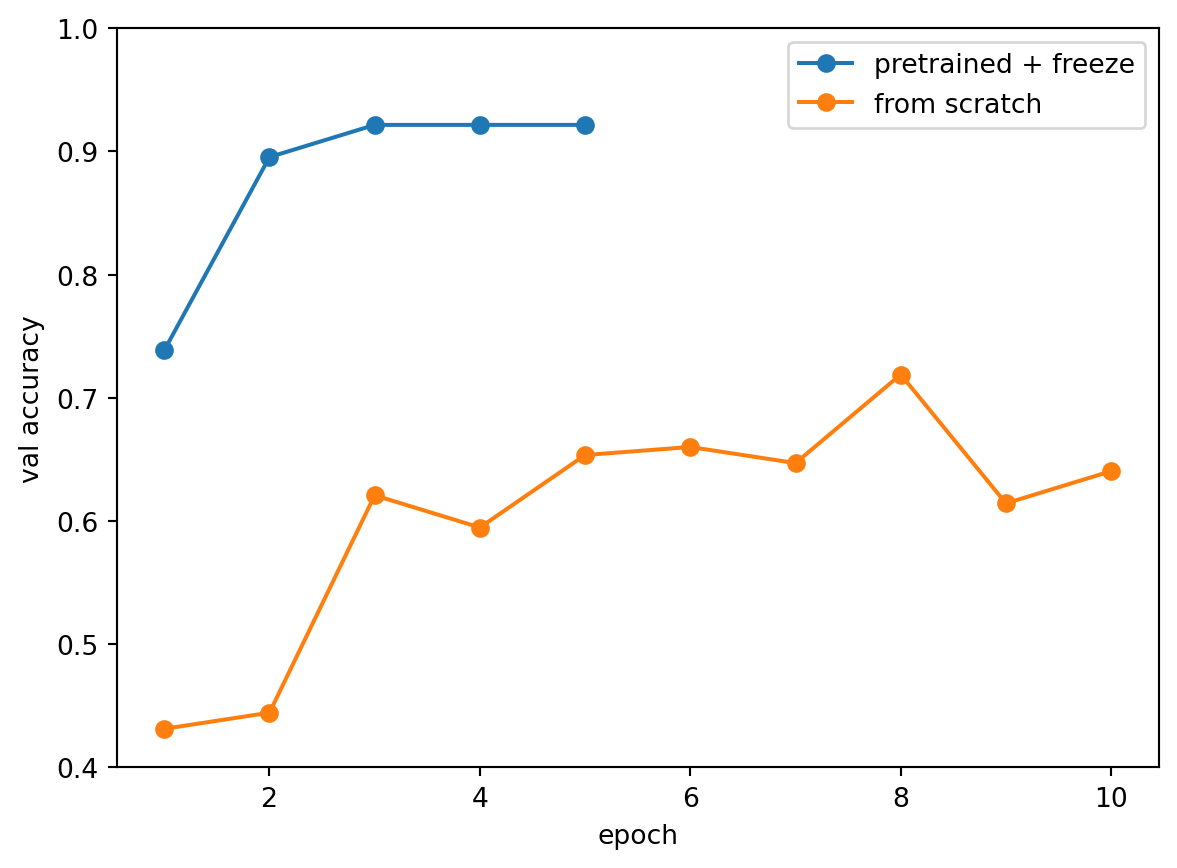
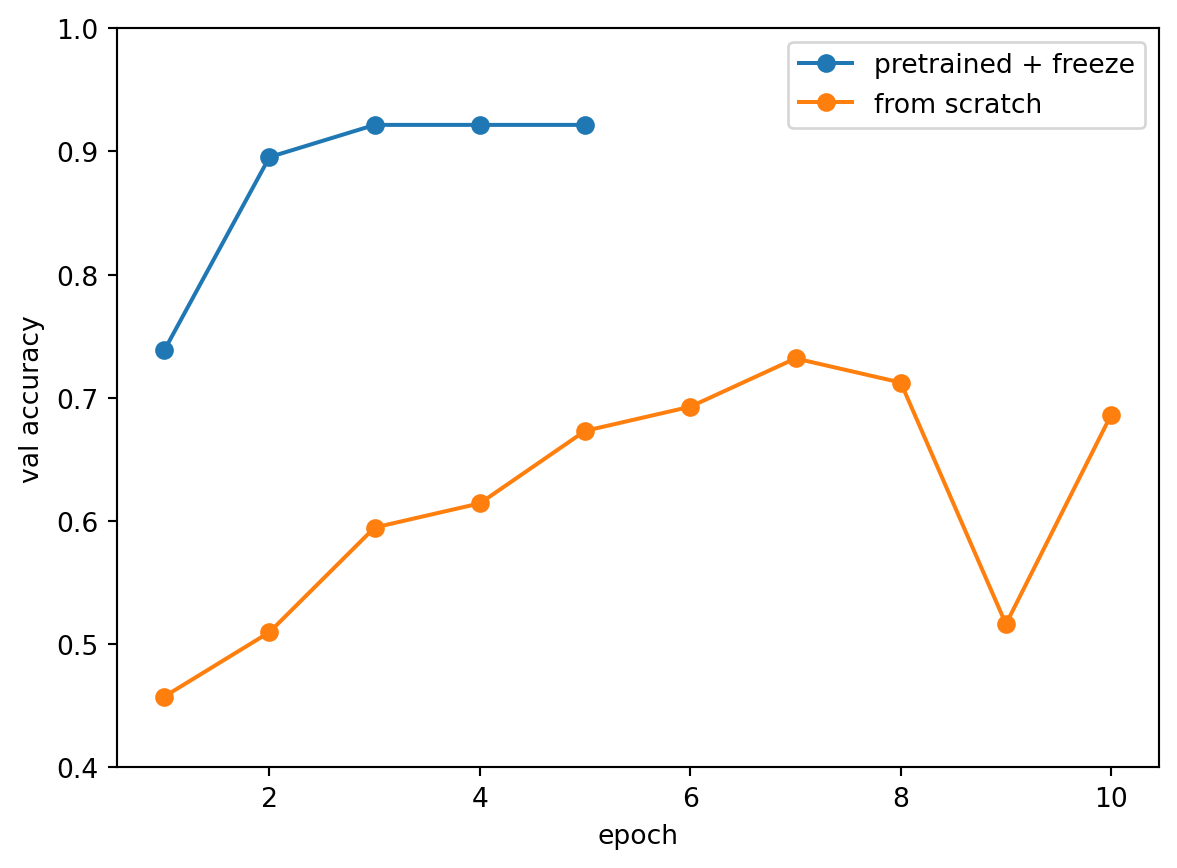
사이트 갱신: 2026-11-02

diff --git a/labs/lab07.html b/labs/lab07.html
@@ -247,7 +247,7 @@ pre > code.sourceCode > span > a:first-child::before { text-decoration: underlin
 </tr>
 </tbody>
 </table>
-<div id="a8a3413d" class="cell" data-execution_count="1">
+<div id="6ccfcf05" class="cell" data-execution_count="1">
 <div class="sourceCode cell-code" id="cb1"><pre class="sourceCode python code-with-copy"><code class="sourceCode python"><span id="cb1-1"><a href="#cb1-1" aria-hidden="true" tabindex="-1"></a><span class="co"># ▶ 준비 셀 — 그대로 실행하세요.</span></span>
 <span id="cb1-2"><a href="#cb1-2" aria-hidden="true" tabindex="-1"></a><span class="im">import</span> os, zipfile, urllib.request</span>
 <span id="cb1-3"><a href="#cb1-3" aria-hidden="true" tabindex="-1"></a><span class="im">import</span> torch</span>
@@ -270,7 +270,7 @@ pre > code.sourceCode > span > a:first-child::before { text-decoration: underlin
 <section id="미리-학습된-모델을-불러온다" class="level2">
 <h2 class="anchored" data-anchor-id="미리-학습된-모델을-불러온다">1. 미리 학습된 모델을 불러온다</h2>
 <p><code>torchvision.models</code>에는 7장의 ResNet이 들어 있습니다. <code>weights</code>에 ImageNet으로 학습한 가중치를 지정하면 가중치까지 내려받습니다. <code>weights.meta['categories']</code>는 1,000개 클래스의 이름입니다.</p>
-<div id="46ada683" class="cell" data-execution_count="2">
+<div id="310896a1" class="cell" data-execution_count="2">
 <div class="sourceCode cell-code" id="cb3"><pre class="sourceCode python code-with-copy"><code class="sourceCode python"><span id="cb3-1"><a href="#cb3-1" aria-hidden="true" tabindex="-1"></a><span class="co"># ✍ 직접 입력</span></span>
 <span id="cb3-2"><a href="#cb3-2" aria-hidden="true" tabindex="-1"></a>weights <span class="op">=</span> models.ResNet18_Weights.IMAGENET1K_V1</span>
 <span id="cb3-3"><a href="#cb3-3" aria-hidden="true" tabindex="-1"></a>model <span class="op">=</span> models.resnet18(weights<span class="op">=</span>weights).to(device)</span>
@@ -282,7 +282,7 @@ pre > code.sourceCode > span > a:first-child::before { text-decoration: underlin
 </div>
 <p>✅ <strong>체크포인트</strong> — <code>1000</code>과 <code>['tench', 'goldfish', 'great white shark', 'tiger shark', 'hammerhead']</code>이면 맞습니다.</p>
 <p>사전학습 모델에는 학습할 때와 같은 형태의 입력을 넣습니다. 이 모델은 224×224 사진을 ImageNet 사진의 채널별 평균과 표준편차로 표준화해 학습했습니다. <code>Resize(256)</code>으로 짧은 변을 256으로 줄이고 <code>CenterCrop(224)</code>로 가운데를 잘라 냅니다.</p>
-<div id="fb6c0832" class="cell" data-execution_count="3">
+<div id="86bbafb1" class="cell" data-execution_count="3">
 <div class="sourceCode cell-code" id="cb5"><pre class="sourceCode python code-with-copy"><code class="sourceCode python"><span id="cb5-1"><a href="#cb5-1" aria-hidden="true" tabindex="-1"></a><span class="co"># ✍ 직접 입력</span></span>
 <span id="cb5-2"><a href="#cb5-2" aria-hidden="true" tabindex="-1"></a>mean <span class="op">=</span> (<span class="fl">0.485</span>, <span class="fl">0.456</span>, <span class="fl">0.406</span>)</span>
 <span id="cb5-3"><a href="#cb5-3" aria-hidden="true" tabindex="-1"></a>std <span class="op">=</span> (<span class="fl">0.229</span>, <span class="fl">0.224</span>, <span class="fl">0.225</span>)</span>
@@ -314,7 +314,7 @@ pre > code.sourceCode > span > a:first-child::before { text-decoration: underlin
 </div>
 </div>
 <p>사진을 변환해 모델에 넣고, 1,000개 확률 가운데 큰 것 다섯 개를 봅니다. <code>topk(5)</code>는 큰 값 다섯 개와 그 위치를 돌려줍니다.</p>
-<div id="d26b1609" class="cell" data-execution_count="5">
+<div id="d7ac351c" class="cell" data-execution_count="5">
 <div class="sourceCode cell-code" id="cb7"><pre class="sourceCode python code-with-copy"><code class="sourceCode python"><span id="cb7-1"><a href="#cb7-1" aria-hidden="true" tabindex="-1"></a><span class="co"># ✍ 직접 입력</span></span>
 <span id="cb7-2"><a href="#cb7-2" aria-hidden="true" tabindex="-1"></a>model.<span class="bu">eval</span>()</span>
 <span id="cb7-3"><a href="#cb7-3" aria-hidden="true" tabindex="-1"></a>x <span class="op">=</span> tf(photo).unsqueeze(<span class="dv">0</span>).to(device)</span>
@@ -334,7 +334,7 @@ Persian cat 0.0</code></pre>
 <p>✅ <strong>체크포인트</strong> — 1~3위가 <code>Egyptian cat</code>, <code>tiger cat</code>, <code>tabby</code>이면 맞습니다. 셋 다 고양이 종류입니다.</p>
 <p>💬 <strong>결과 해설</strong> — 이 모델은 우리가 한 번도 학습시키지 않았습니다. 그래도 고양이 종류 셋을 맨 위에 놓습니다. 실습 6의 모델은 같은 사진을 <code>cat</code>, <code>dog</code>, <code>frog</code> 사이에서 오갔습니다.</p>
 <p>사진 한 장을 받아 상위 다섯 개를 돌려주는 함수로 조립합니다.</p>
-<div id="e98743bc" class="cell" data-execution_count="6">
+<div id="1076d2a9" class="cell" data-execution_count="6">
 <div class="sourceCode cell-code" id="cb9"><pre class="sourceCode python code-with-copy"><code class="sourceCode python"><span id="cb9-1"><a href="#cb9-1" aria-hidden="true" tabindex="-1"></a><span class="co"># ✍ 직접 입력</span></span>
 <span id="cb9-2"><a href="#cb9-2" aria-hidden="true" tabindex="-1"></a><span class="kw">def</span> top5(photo):</span>
 <span id="cb9-3"><a href="#cb9-3" aria-hidden="true" tabindex="-1"></a>    x <span class="op">=</span> tf(photo).unsqueeze(<span class="dv">0</span>).to(device)</span>
@@ -351,12 +351,12 @@ Persian cat 0.0</code></pre>
 </div>
 <p>✅ <strong>체크포인트</strong> — 바로 위와 같은 다섯 개면 맞습니다.</p>
 <p>내 사진을 올립니다. 아래 셀은 <strong>Colab에서만</strong> 실행됩니다. 사람은 찍지 않습니다.</p>
-<div id="516906c5" class="cell" data-execution_count="7">
+<div id="c31e9333" class="cell" data-execution_count="7">
 <div class="sourceCode cell-code" id="cb11"><pre class="sourceCode python code-with-copy"><code class="sourceCode python"><span id="cb11-1"><a href="#cb11-1" aria-hidden="true" tabindex="-1"></a><span class="co"># ▶ 그대로 실행하세요 — (Colab) 내 사진 올리기</span></span>
 <span id="cb11-2"><a href="#cb11-2" aria-hidden="true" tabindex="-1"></a><span class="im">from</span> google.colab <span class="im">import</span> files</span>
 <span id="cb11-3"><a href="#cb11-3" aria-hidden="true" tabindex="-1"></a>uploaded <span class="op">=</span> files.upload()</span></code><button title="클립보드 복사" class="code-copy-button"><i class="bi"></i></button></pre></div>
 </div>
-<div id="4c401c0d" class="cell" data-execution_count="8">
+<div id="472eb8cf" class="cell" data-execution_count="8">
 <div class="sourceCode cell-code" id="cb12"><pre class="sourceCode python code-with-copy"><code class="sourceCode python"><span id="cb12-1"><a href="#cb12-1" aria-hidden="true" tabindex="-1"></a><span class="co"># ✍ 직접 입력</span></span>
 <span id="cb12-2"><a href="#cb12-2" aria-hidden="true" tabindex="-1"></a><span class="cf">for</span> name <span class="kw">in</span> uploaded:</span>
 <span id="cb12-3"><a href="#cb12-3" aria-hidden="true" tabindex="-1"></a>    img <span class="op">=</span> ImageOps.exif_transpose(Image.<span class="bu">open</span>(name)).convert(<span class="st">'RGB'</span>)</span>
@@ -408,7 +408,7 @@ Persian cat 0.0</code></pre>
 <pre><code>hymenoptera_data/
   train/   ants/ … bees/ …
   val/     ants/ … bees/ …</code></pre>
-<div id="9c241440" class="cell" data-execution_count="10">
+<div id="6c467c6c" class="cell" data-execution_count="10">
 <div class="sourceCode cell-code" id="cb15"><pre class="sourceCode python code-with-copy"><code class="sourceCode python"><span id="cb15-1"><a href="#cb15-1" aria-hidden="true" tabindex="-1"></a><span class="co"># ▶ 그대로 실행하세요 — 개미·벌 사진 내려받기(약 45MB)</span></span>
 <span id="cb15-2"><a href="#cb15-2" aria-hidden="true" tabindex="-1"></a>ROOT <span class="op">=</span> <span class="st">'../data/hymenoptera_data'</span></span>
 <span id="cb15-3"><a href="#cb15-3" aria-hidden="true" tabindex="-1"></a><span class="cf">if</span> <span class="kw">not</span> os.path.isdir(ROOT):</span>
@@ -424,7 +424,7 @@ Persian cat 0.0</code></pre>
 </div>
 <p>✅ <code>['train', 'val']</code>이 나오면 됩니다.</p>
 <p><code>datasets.ImageFolder</code>는 폴더 이름을 클래스로 읽습니다. 변환 없이 먼저 읽어 봅니다.</p>
-<div id="ac0efe20" class="cell" data-execution_count="11">
+<div id="bbb0620f" class="cell" data-execution_count="11">
 <div class="sourceCode cell-code" id="cb17"><pre class="sourceCode python code-with-copy"><code class="sourceCode python"><span id="cb17-1"><a href="#cb17-1" aria-hidden="true" tabindex="-1"></a><span class="co"># ✍ 직접 입력</span></span>
 <span id="cb17-2"><a href="#cb17-2" aria-hidden="true" tabindex="-1"></a>raw <span class="op">=</span> datasets.ImageFolder(ROOT <span class="op">+</span> <span class="st">'/train'</span>)</span>
 <span id="cb17-3"><a href="#cb17-3" aria-hidden="true" tabindex="-1"></a><span class="bu">print</span>(raw.classes, <span class="bu">len</span>(raw))</span>
@@ -455,7 +455,7 @@ Persian cat 0.0</code></pre>
 </div>
 </div>
 <p>훈련 사진에 쓸 변환에 이론 8장의 증강을 넣습니다. <code>RandomHorizontalFlip()</code>은 절반의 확률로 좌우를 뒤집고, <code>RandomRotation(15)</code>는 −15°에서 15° 사이로 돌리고, <code>ColorJitter</code>는 밝기·대비·채도를 30% 안에서 바꿉니다. 회전을 <code>CenterCrop</code> 앞에 두어 회전으로 생긴 모서리가 잘려 나가게 합니다.</p>
-<div id="52609421" class="cell" data-execution_count="13">
+<div id="840aa87b" class="cell" data-execution_count="13">
 <div class="sourceCode cell-code" id="cb20"><pre class="sourceCode python code-with-copy"><code class="sourceCode python"><span id="cb20-1"><a href="#cb20-1" aria-hidden="true" tabindex="-1"></a><span class="co"># ✍ 직접 입력</span></span>
 <span id="cb20-2"><a href="#cb20-2" aria-hidden="true" tabindex="-1"></a>tf_train <span class="op">=</span> transforms.Compose([</span>
 <span id="cb20-3"><a href="#cb20-3" aria-hidden="true" tabindex="-1"></a>    transforms.Resize(<span class="dv">256</span>),</span>
@@ -487,7 +487,7 @@ Persian cat 0.0</code></pre>
 </div>
 <p>💬 <strong>결과 해설</strong> — 같은 사진이 부를 때마다 다르게 바뀝니다. 학습 중에는 에폭마다 이런 새 변형이 들어갑니다.</p>
 <p>데이터셋과 로더를 만듭니다. 증강은 훈련 사진에만 쓰고, 검증 사진에는 1절의 <code>tf</code>를 씁니다.</p>
-<div id="83ee1f5a" class="cell" data-execution_count="15">
+<div id="9af814ba" class="cell" data-execution_count="15">
 <div class="sourceCode cell-code" id="cb22"><pre class="sourceCode python code-with-copy"><code class="sourceCode python"><span id="cb22-1"><a href="#cb22-1" aria-hidden="true" tabindex="-1"></a><span class="co"># ✍ 직접 입력</span></span>
 <span id="cb22-2"><a href="#cb22-2" aria-hidden="true" tabindex="-1"></a>train_ds <span class="op">=</span> datasets.ImageFolder(ROOT <span class="op">+</span> <span class="st">'/train'</span>, transform<span class="op">=</span>tf_train)</span>
 <span id="cb22-3"><a href="#cb22-3" aria-hidden="true" tabindex="-1"></a>val_ds <span class="op">=</span> datasets.ImageFolder(ROOT <span class="op">+</span> <span class="st">'/val'</span>, transform<span class="op">=</span>tf)</span>
@@ -508,7 +508,7 @@ Persian cat 0.0</code></pre>
 <section id="분류부-확인" class="level3">
 <h3 class="anchored" data-anchor-id="분류부-확인">5-1. 분류부 확인</h3>
 <p>이론 8장에서 CNN을 특성 학습부와 분류부로 나누었습니다. ResNet-18에서는 맨 끝의 <code>model.fc</code> 한 층이 분류부이고, 그 앞의 층이 모두 특성 학습부입니다.</p>
-<div id="851064a8" class="cell" data-execution_count="16">
+<div id="92c56020" class="cell" data-execution_count="16">
 <div class="sourceCode cell-code" id="cb24"><pre class="sourceCode python code-with-copy"><code class="sourceCode python"><span id="cb24-1"><a href="#cb24-1" aria-hidden="true" tabindex="-1"></a><span class="co"># ✍ 직접 입력</span></span>
 <span id="cb24-2"><a href="#cb24-2" aria-hidden="true" tabindex="-1"></a><span class="bu">print</span>(model.fc)</span>
 <span id="cb24-3"><a href="#cb24-3" aria-hidden="true" tabindex="-1"></a><span class="bu">print</span>(model.fc.in_features)</span></code><button title="클립보드 복사" class="code-copy-button"><i class="bi"></i></button></pre></div>
@@ -523,7 +523,7 @@ Persian cat 0.0</code></pre>
 <section id="특성-학습부-동결" class="level3">
 <h3 class="anchored" data-anchor-id="특성-학습부-동결">5-2. 특성 학습부 동결</h3>
 <p>실습 3에서 <code>requires_grad</code>가 <code>True</code>인 텐서만 <code>backward()</code> 때 기울기가 계산된다고 했습니다. 기울기가 없으면 옵티마이저도 값을 바꾸지 못합니다. 그래서 파라미터의 <code>requires_grad</code>를 <code>False</code>로 바꾸면 그 파라미터는 학습 중에도 그대로 고정됩니다. 이것이 동결입니다. 먼저 모델의 모든 파라미터를 동결합니다.</p>
-<div id="d1916847" class="cell" data-execution_count="17">
+<div id="bcfc6930" class="cell" data-execution_count="17">
 <div class="sourceCode cell-code" id="cb26"><pre class="sourceCode python code-with-copy"><code class="sourceCode python"><span id="cb26-1"><a href="#cb26-1" aria-hidden="true" tabindex="-1"></a><span class="co"># ✍ 직접 입력</span></span>
 <span id="cb26-2"><a href="#cb26-2" aria-hidden="true" tabindex="-1"></a><span class="cf">for</span> p <span class="kw">in</span> model.parameters():</span>
 <span id="cb26-3"><a href="#cb26-3" aria-hidden="true" tabindex="-1"></a>    p.requires_grad <span class="op">=</span> <span class="va">False</span></span>
@@ -540,7 +540,7 @@ Persian cat 0.0</code></pre>
 <section id="분류부-갈아-끼우기" class="level3">
 <h3 class="anchored" data-anchor-id="분류부-갈아-끼우기">5-3. 분류부 갈아 끼우기</h3>
 <p><code>model.fc</code>에 새 층을 넣으면 분류부가 바뀝니다. 입력은 특성 512개 그대로이고, 출력은 개미와 벌 2개입니다. 새로 만든 층은 CPU에 있으므로 모델을 다시 <code>device</code>로 옮깁니다. 바꾼 뒤 고양이 사진을 넣어 출력 모양을 봅니다.</p>
-<div id="06d22956" class="cell" data-execution_count="18">
+<div id="ea47bff8" class="cell" data-execution_count="18">
 <div class="sourceCode cell-code" id="cb28"><pre class="sourceCode python code-with-copy"><code class="sourceCode python"><span id="cb28-1"><a href="#cb28-1" aria-hidden="true" tabindex="-1"></a><span class="co"># ✍ 직접 입력</span></span>
 <span id="cb28-2"><a href="#cb28-2" aria-hidden="true" tabindex="-1"></a>model.fc <span class="op">=</span> nn.Linear(<span class="dv">512</span>, <span class="dv">2</span>)</span>
 <span id="cb28-3"><a href="#cb28-3" aria-hidden="true" tabindex="-1"></a>model <span class="op">=</span> model.to(device)</span>
@@ -557,7 +557,7 @@ torch.Size([1, 2])</code></pre>
 <p>✅ <strong>체크포인트</strong> — <code>Linear(in_features=512, out_features=2, bias=True)</code>와 <code>torch.Size([1, 2])</code>이면 맞습니다.</p>
 <p>💬 <strong>결과 해설</strong> — 2절에서는 같은 사진에 점수가 1,000개 나왔는데, 이제는 2개만 나옵니다. 분류부만 바뀌었고 특성 학습부는 그대로입니다.</p>
 <p>학습할 파라미터를 다시 셉니다.</p>
-<div id="697b8eb2" class="cell" data-execution_count="19">
+<div id="54375f2b" class="cell" data-execution_count="19">
 <div class="sourceCode cell-code" id="cb30"><pre class="sourceCode python code-with-copy"><code class="sourceCode python"><span id="cb30-1"><a href="#cb30-1" aria-hidden="true" tabindex="-1"></a><span class="co"># ✍ 직접 입력</span></span>
 <span id="cb30-2"><a href="#cb30-2" aria-hidden="true" tabindex="-1"></a>n_train <span class="op">=</span> <span class="bu">sum</span>(p.numel() <span class="cf">for</span> p <span class="kw">in</span> model.parameters() <span class="cf">if</span> p.requires_grad)</span>
 <span id="cb30-3"><a href="#cb30-3" aria-hidden="true" tabindex="-1"></a>n_all <span class="op">=</span> <span class="bu">sum</span>(p.numel() <span class="cf">for</span> p <span class="kw">in</span> model.parameters())</span>
@@ -574,7 +574,7 @@ torch.Size([1, 2])</code></pre>
 <section id="학습시켜-비교한다" class="level2">
 <h2 class="anchored" data-anchor-id="학습시켜-비교한다">6. 학습시켜 비교한다</h2>
 <p>학습 함수와 평가 함수는 실습 6과 같습니다.</p>
-<div id="a730d31d" class="cell" data-execution_count="20">
+<div id="f07da155" class="cell" data-execution_count="20">
 <div class="sourceCode cell-code" id="cb32"><pre class="sourceCode python code-with-copy"><code class="sourceCode python"><span id="cb32-1"><a href="#cb32-1" aria-hidden="true" tabindex="-1"></a><span class="co"># ▶ 그대로 실행하세요 — 실습 6과 같은 학습·평가 함수</span></span>
 <span id="cb32-2"><a href="#cb32-2" aria-hidden="true" tabindex="-1"></a><span class="kw">def</span> train_one_epoch(model, loader, criterion, optimizer):</span>
 <span id="cb32-3"><a href="#cb32-3" aria-hidden="true" tabindex="-1"></a>    model.train()</span>
@@ -605,7 +605,7 @@ torch.Size([1, 2])</code></pre>
 <span id="cb32-28"><a href="#cb32-28" aria-hidden="true" tabindex="-1"></a>    <span class="cf">return</span> total <span class="op">/</span> n, correct <span class="op">/</span> n</span></code><button title="클립보드 복사" class="code-copy-button"><i class="bi"></i></button></pre></div>
 </div>
 <p>옵티마이저에는 학습할 분류부 <code>model.fc</code>의 파라미터만 넘깁니다. 학습 전의 검증 정확도를 먼저 봅니다.</p>
-<div id="770d35d2" class="cell" data-execution_count="21">
+<div id="0c4f09f2" class="cell" data-execution_count="21">
 <div class="sourceCode cell-code" id="cb33"><pre class="sourceCode python code-with-copy"><code class="sourceCode python"><span id="cb33-1"><a href="#cb33-1" aria-hidden="true" tabindex="-1"></a><span class="co"># ✍ 직접 입력</span></span>
 <span id="cb33-2"><a href="#cb33-2" aria-hidden="true" tabindex="-1"></a>criterion <span class="op">=</span> nn.CrossEntropyLoss()</span>
 <span id="cb33-3"><a href="#cb33-3" aria-hidden="true" tabindex="-1"></a>optimizer <span class="op">=</span> torch.optim.Adam(model.fc.parameters(), lr<span class="op">=</span><span class="fl">0.001</span>)</span>
@@ -616,13 +616,13 @@ torch.Size([1, 2])</code></pre>
 </div>
 <p>✅ <strong>체크포인트</strong> — 정확도가 <strong>0.5</strong> 안팎이면 맞습니다. 새 분류부는 아직 무작위라 둘 중 하나를 찍는 수준입니다.</p>
 <p>학습하기 전에 특성 학습부의 첫 층 커널과 분류부의 가중치를 복사해 둡니다. 학습이 끝난 뒤 무엇이 바뀌었는지 비교합니다.</p>
-<div id="e54fa633" class="cell" data-execution_count="22">
+<div id="3effa29b" class="cell" data-execution_count="22">
 <div class="sourceCode cell-code" id="cb35"><pre class="sourceCode python code-with-copy"><code class="sourceCode python"><span id="cb35-1"><a href="#cb35-1" aria-hidden="true" tabindex="-1"></a><span class="co"># ✍ 직접 입력</span></span>
 <span id="cb35-2"><a href="#cb35-2" aria-hidden="true" tabindex="-1"></a>conv1_before <span class="op">=</span> model.conv1.weight.clone()</span>
 <span id="cb35-3"><a href="#cb35-3" aria-hidden="true" tabindex="-1"></a>fc_before <span class="op">=</span> model.fc.weight.clone()</span></code><button title="클립보드 복사" class="code-copy-button"><i class="bi"></i></button></pre></div>
 </div>
 <p>5 에폭 학습하며 검증 정확도를 기록합니다.</p>
-<div id="87aa1b63" class="cell" data-execution_count="23">
+<div id="fea1d12d" class="cell" data-execution_count="23">
 <div class="sourceCode cell-code" id="cb36"><pre class="sourceCode python code-with-copy"><code class="sourceCode python"><span id="cb36-1"><a href="#cb36-1" aria-hidden="true" tabindex="-1"></a><span class="co"># ✍ 직접 입력</span></span>
 <span id="cb36-2"><a href="#cb36-2" aria-hidden="true" tabindex="-1"></a>hist_tl <span class="op">=</span> []</span>
 <span id="cb36-3"><a href="#cb36-3" aria-hidden="true" tabindex="-1"></a><span class="cf">for</span> epoch <span class="kw">in</span> <span class="bu">range</span>(<span class="dv">5</span>):</span>
@@ -640,7 +640,7 @@ torch.Size([1, 2])</code></pre>
 </div>
 <p>✅ <strong>체크포인트</strong> — 마지막 정확도가 <strong>0.92~0.95</strong>이면 맞습니다. 첫 에폭부터 0.7을 넘습니다.</p>
 <p>복사해 둔 값과 비교합니다. <code>torch.equal</code>은 두 텐서의 값이 모두 같으면 <code>True</code>를 돌려줍니다.</p>
-<div id="8b9ba6e2" class="cell" data-execution_count="24">
+<div id="17e99f44" class="cell" data-execution_count="24">
 <div class="sourceCode cell-code" id="cb38"><pre class="sourceCode python code-with-copy"><code class="sourceCode python"><span id="cb38-1"><a href="#cb38-1" aria-hidden="true" tabindex="-1"></a><span class="co"># ✍ 직접 입력</span></span>
 <span id="cb38-2"><a href="#cb38-2" aria-hidden="true" tabindex="-1"></a><span class="bu">print</span>(torch.equal(conv1_before, model.conv1.weight))</span>
 <span id="cb38-3"><a href="#cb38-3" aria-hidden="true" tabindex="-1"></a><span class="bu">print</span>(torch.equal(fc_before, model.fc.weight))</span></code><button title="클립보드 복사" class="code-copy-button"><i class="bi"></i></button></pre></div>
@@ -652,7 +652,7 @@ False</code></pre>
 <p>✅ <strong>체크포인트</strong> — <code>True</code>와 <code>False</code>이면 맞습니다.</p>
 <p>💬 <strong>결과 해설</strong> — 동결한 첫 층의 커널은 5 에폭을 학습한 뒤에도 그대로이고, 분류부의 가중치만 바뀌었습니다.</p>
 <p>같은 ResNet-18을 <code>weights=None</code>으로 만들면 가중치가 무작위인 모델이 됩니다. 같은 사진으로 처음부터 학습합니다. 이번에는 모든 파라미터를 학습하고, 에폭을 10으로 늘립니다.</p>
-<div id="f4fd0d2f" class="cell" data-execution_count="25">
+<div id="5e4cfb61" class="cell" data-execution_count="25">
 <div class="sourceCode cell-code" id="cb40"><pre class="sourceCode python code-with-copy"><code class="sourceCode python"><span id="cb40-1"><a href="#cb40-1" aria-hidden="true" tabindex="-1"></a><span class="co"># ✍ 직접 입력</span></span>
 <span id="cb40-2"><a href="#cb40-2" aria-hidden="true" tabindex="-1"></a>torch.manual_seed(<span class="dv">42</span>)</span>
 <span id="cb40-3"><a href="#cb40-3" aria-hidden="true" tabindex="-1"></a>scratch <span class="op">=</span> models.resnet18(weights<span class="op">=</span><span class="va">None</span>)</span>
@@ -667,16 +667,16 @@ False</code></pre>
 <span id="cb40-12"><a href="#cb40-12" aria-hidden="true" tabindex="-1"></a>    hist_sc.append(val_acc)</span>
 <span id="cb40-13"><a href="#cb40-13" aria-hidden="true" tabindex="-1"></a>    <span class="bu">print</span>(epoch, <span class="bu">round</span>(val_loss, <span class="dv">4</span>), <span class="bu">round</span>(val_acc, <span class="dv">4</span>))</span></code><button title="클립보드 복사" class="code-copy-button"><i class="bi"></i></button></pre></div>
 <div class="cell-output cell-output-stdout">
-<pre><code>0 4.5382 0.4314
-1 1.2184 0.4444
-2 2.3314 0.6209
-3 1.1489 0.5948
-4 0.7108 0.6536
-5 0.6626 0.6601
-6 0.8597 0.6471
-7 0.6707 0.719
-8 0.8221 0.6144
-9 0.7082 0.6405</code></pre>
+<pre><code>0 2.4719 0.4575
+1 0.9612 0.5098
+2 2.5859 0.5948
+3 1.4424 0.6144
+4 0.7503 0.6732
+5 0.6012 0.6928
+6 0.6459 0.732
+7 0.7223 0.7124
+8 1.3611 0.5163
+9 0.8026 0.6863</code></pre>
 </div>
 </div>
 <p>💬 <strong>결과 해설</strong> — 검증 정확도가 0.4에서 0.8 사이를 오르내립니다. 구조도 사진도 같고, 다른 것은 가중치의 출발점뿐입니다.</p>
@@ -733,6 +733,36 @@ False</code></pre>
 </div>
 </div>
 <p>💬 <strong>결과 해설</strong> — 사전학습 모델은 24장 가운데 한두 장만 틀립니다. 처음부터 학습한 모델은 그보다 몇 배 많이 틀리고, 틀리는 장수는 학습할 때마다 달라집니다. 사진 244장은 처음부터 학습하기에는 적지만, 분류부 1,026개를 학습하기에는 충분합니다.</p>
+<p>학습한 개미·벌 모델로 사진을 판별해 봅니다. 사진 한 장을 받아 두 클래스의 확률을 돌려주는 함수를 만들고, 검증 사진 한 장으로 먼저 확인합니다.</p>
+<div id="db62edc2" class="cell" data-execution_count="28">
+<div class="sourceCode cell-code" id="cb44"><pre class="sourceCode python code-with-copy"><code class="sourceCode python"><span id="cb44-1"><a href="#cb44-1" aria-hidden="true" tabindex="-1"></a><span class="co"># ✍ 직접 입력</span></span>
+<span id="cb44-2"><a href="#cb44-2" aria-hidden="true" tabindex="-1"></a><span class="kw">def</span> predict(photo):</span>
+<span id="cb44-3"><a href="#cb44-3" aria-hidden="true" tabindex="-1"></a>    x <span class="op">=</span> tf(photo).unsqueeze(<span class="dv">0</span>).to(device)</span>
+<span id="cb44-4"><a href="#cb44-4" aria-hidden="true" tabindex="-1"></a>    model.<span class="bu">eval</span>()</span>
+<span id="cb44-5"><a href="#cb44-5" aria-hidden="true" tabindex="-1"></a>    <span class="cf">with</span> torch.no_grad():</span>
+<span id="cb44-6"><a href="#cb44-6" aria-hidden="true" tabindex="-1"></a>        prob <span class="op">=</span> torch.softmax(model(x), dim<span class="op">=</span><span class="dv">1</span>)[<span class="dv">0</span>]</span>
+<span id="cb44-7"><a href="#cb44-7" aria-hidden="true" tabindex="-1"></a>    <span class="cf">return</span> {c: <span class="bu">round</span>(p, <span class="dv">3</span>) <span class="cf">for</span> c, p <span class="kw">in</span> <span class="bu">zip</span>(train_ds.classes, prob.tolist())}</span>
+<span id="cb44-8"><a href="#cb44-8" aria-hidden="true" tabindex="-1"></a></span>
+<span id="cb44-9"><a href="#cb44-9" aria-hidden="true" tabindex="-1"></a>img, label <span class="op">=</span> raw_val[<span class="dv">0</span>]</span>
+<span id="cb44-10"><a href="#cb44-10" aria-hidden="true" tabindex="-1"></a><span class="bu">print</span>(raw_val.classes[label], predict(img))</span></code><button title="클립보드 복사" class="code-copy-button"><i class="bi"></i></button></pre></div>
+<div class="cell-output cell-output-stdout">
+<pre><code>ants {'ants': 0.667, 'bees': 0.333}</code></pre>
+</div>
+</div>
+<p>✅ <strong>체크포인트</strong> — 실제 클래스 <code>ants</code>와 함께 <code>{'ants': 0.667, 'bees': 0.333}</code>처럼 <code>ants</code>의 확률이 더 크게 나오면 맞습니다.</p>
+<p>이제 내 사진을 올립니다. 아래 셀은 <strong>Colab에서만</strong> 실행됩니다. 인터넷에서 개미나 벌 사진을 내려받아 올려 봅니다.</p>
+<div id="579c80fc" class="cell" data-execution_count="29">
+<div class="sourceCode cell-code" id="cb46"><pre class="sourceCode python code-with-copy"><code class="sourceCode python"><span id="cb46-1"><a href="#cb46-1" aria-hidden="true" tabindex="-1"></a><span class="co"># ▶ 그대로 실행하세요 — (Colab) 사진 올리기</span></span>
+<span id="cb46-2"><a href="#cb46-2" aria-hidden="true" tabindex="-1"></a><span class="im">from</span> google.colab <span class="im">import</span> files</span>
+<span id="cb46-3"><a href="#cb46-3" aria-hidden="true" tabindex="-1"></a>uploaded <span class="op">=</span> files.upload()</span></code><button title="클립보드 복사" class="code-copy-button"><i class="bi"></i></button></pre></div>
+</div>
+<div id="bbaa7e2c" class="cell" data-execution_count="30">
+<div class="sourceCode cell-code" id="cb47"><pre class="sourceCode python code-with-copy"><code class="sourceCode python"><span id="cb47-1"><a href="#cb47-1" aria-hidden="true" tabindex="-1"></a><span class="co"># ✍ 직접 입력</span></span>
+<span id="cb47-2"><a href="#cb47-2" aria-hidden="true" tabindex="-1"></a><span class="cf">for</span> name <span class="kw">in</span> uploaded:</span>
+<span id="cb47-3"><a href="#cb47-3" aria-hidden="true" tabindex="-1"></a>    img <span class="op">=</span> ImageOps.exif_transpose(Image.<span class="bu">open</span>(name)).convert(<span class="st">'RGB'</span>)</span>
+<span id="cb47-4"><a href="#cb47-4" aria-hidden="true" tabindex="-1"></a>    <span class="bu">print</span>(name, predict(img))</span></code><button title="클립보드 복사" class="code-copy-button"><i class="bi"></i></button></pre></div>
+</div>
+<p>💬 사진 이름 옆에 <code>ants</code>와 <code>bees</code>의 확률이 나옵니다. 개미나 벌이 아닌 사진을 올려도 둘 중 하나의 확률이 높게 나옵니다. 분류부의 출력이 2개뿐이라 둘 중에서만 고르기 때문입니다.</p>
 <hr>
 </section>
 <section id="실습-과제-8분" class="level2">
@@ -740,22 +770,22 @@ False</code></pre>
 <section id="과제-1-사진을-더-줄이면" class="level3">
 <h3 class="anchored" data-anchor-id="과제-1-사진을-더-줄이면">📝 과제 1 · 사진을 더 줄이면</h3>
 <p>훈련 사진을 클래스마다 20장, 모두 40장만 써서 동결 학습을 다시 합니다. 새 모델을 만들어 5절과 같이 동결하고, 10 에폭 학습한 뒤 검증 정확도를 적습니다.</p>
-<div id="50e8ba94" class="cell" data-execution_count="28">
-<div class="sourceCode cell-code" id="cb44"><pre class="sourceCode python code-with-copy"><code class="sourceCode python"><span id="cb44-1"><a href="#cb44-1" aria-hidden="true" tabindex="-1"></a><span class="co"># 📝</span></span>
-<span id="cb44-2"><a href="#cb44-2" aria-hidden="true" tabindex="-1"></a><span class="co">#&gt; 힌트: train_ds.targets에서 라벨이 0인 앞 20개와 1인 앞 20개의 번호를 골라 Subset(train_ds, idx)로 데이터셋을 만들고, DataLoader(batch_size=8, shuffle=True)로 감쌉니다.</span></span>
-<span id="cb44-3"><a href="#cb44-3" aria-hidden="true" tabindex="-1"></a><span class="co">#&gt; 힌트: 모델은 models.resnet18(weights=weights)로 새로 만들고, 5절의 동결·교체 코드와 6절의 학습 반복문을 그대로 씁니다.</span></span>
-<span id="cb44-4"><a href="#cb44-4" aria-hidden="true" tabindex="-1"></a>idx <span class="op">=</span> [i <span class="cf">for</span> c <span class="kw">in</span> (<span class="dv">0</span>, <span class="dv">1</span>) <span class="cf">for</span> i <span class="kw">in</span> [j <span class="cf">for</span> j, t <span class="kw">in</span> <span class="bu">enumerate</span>(train_ds.targets) <span class="cf">if</span> t <span class="op">==</span> c][:<span class="dv">20</span>]]</span>
-<span id="cb44-5"><a href="#cb44-5" aria-hidden="true" tabindex="-1"></a>small_loader <span class="op">=</span> DataLoader(Subset(train_ds, idx), batch_size<span class="op">=</span><span class="dv">8</span>, shuffle<span class="op">=</span><span class="va">True</span>)</span>
-<span id="cb44-6"><a href="#cb44-6" aria-hidden="true" tabindex="-1"></a></span>
-<span id="cb44-7"><a href="#cb44-7" aria-hidden="true" tabindex="-1"></a>m20 <span class="op">=</span> models.resnet18(weights<span class="op">=</span>weights)</span>
-<span id="cb44-8"><a href="#cb44-8" aria-hidden="true" tabindex="-1"></a><span class="cf">for</span> p <span class="kw">in</span> m20.parameters():</span>
-<span id="cb44-9"><a href="#cb44-9" aria-hidden="true" tabindex="-1"></a>    p.requires_grad <span class="op">=</span> <span class="va">False</span></span>
-<span id="cb44-10"><a href="#cb44-10" aria-hidden="true" tabindex="-1"></a>m20.fc <span class="op">=</span> nn.Linear(<span class="dv">512</span>, <span class="dv">2</span>)</span>
-<span id="cb44-11"><a href="#cb44-11" aria-hidden="true" tabindex="-1"></a>m20 <span class="op">=</span> m20.to(device)</span>
-<span id="cb44-12"><a href="#cb44-12" aria-hidden="true" tabindex="-1"></a>opt20 <span class="op">=</span> torch.optim.Adam(m20.fc.parameters(), lr<span class="op">=</span><span class="fl">0.001</span>)</span>
-<span id="cb44-13"><a href="#cb44-13" aria-hidden="true" tabindex="-1"></a><span class="cf">for</span> epoch <span class="kw">in</span> <span class="bu">range</span>(<span class="dv">10</span>):</span>
-<span id="cb44-14"><a href="#cb44-14" aria-hidden="true" tabindex="-1"></a>    train_one_epoch(m20, small_loader, criterion, opt20)</span>
-<span id="cb44-15"><a href="#cb44-15" aria-hidden="true" tabindex="-1"></a><span class="bu">print</span>(<span class="bu">len</span>(idx), evaluate(m20, val_loader, criterion))</span></code><button title="클립보드 복사" class="code-copy-button"><i class="bi"></i></button></pre></div>
+<div id="fb2e0540" class="cell" data-execution_count="31">
+<div class="sourceCode cell-code" id="cb48"><pre class="sourceCode python code-with-copy"><code class="sourceCode python"><span id="cb48-1"><a href="#cb48-1" aria-hidden="true" tabindex="-1"></a><span class="co"># 📝</span></span>
+<span id="cb48-2"><a href="#cb48-2" aria-hidden="true" tabindex="-1"></a><span class="co">#&gt; 힌트: train_ds.targets에서 라벨이 0인 앞 20개와 1인 앞 20개의 번호를 골라 Subset(train_ds, idx)로 데이터셋을 만들고, DataLoader(batch_size=8, shuffle=True)로 감쌉니다.</span></span>
+<span id="cb48-3"><a href="#cb48-3" aria-hidden="true" tabindex="-1"></a><span class="co">#&gt; 힌트: 모델은 models.resnet18(weights=weights)로 새로 만들고, 5절의 동결·교체 코드와 6절의 학습 반복문을 그대로 씁니다.</span></span>
+<span id="cb48-4"><a href="#cb48-4" aria-hidden="true" tabindex="-1"></a>idx <span class="op">=</span> [i <span class="cf">for</span> c <span class="kw">in</span> (<span class="dv">0</span>, <span class="dv">1</span>) <span class="cf">for</span> i <span class="kw">in</span> [j <span class="cf">for</span> j, t <span class="kw">in</span> <span class="bu">enumerate</span>(train_ds.targets) <span class="cf">if</span> t <span class="op">==</span> c][:<span class="dv">20</span>]]</span>
+<span id="cb48-5"><a href="#cb48-5" aria-hidden="true" tabindex="-1"></a>small_loader <span class="op">=</span> DataLoader(Subset(train_ds, idx), batch_size<span class="op">=</span><span class="dv">8</span>, shuffle<span class="op">=</span><span class="va">True</span>)</span>
+<span id="cb48-6"><a href="#cb48-6" aria-hidden="true" tabindex="-1"></a></span>
+<span id="cb48-7"><a href="#cb48-7" aria-hidden="true" tabindex="-1"></a>m20 <span class="op">=</span> models.resnet18(weights<span class="op">=</span>weights)</span>
+<span id="cb48-8"><a href="#cb48-8" aria-hidden="true" tabindex="-1"></a><span class="cf">for</span> p <span class="kw">in</span> m20.parameters():</span>
+<span id="cb48-9"><a href="#cb48-9" aria-hidden="true" tabindex="-1"></a>    p.requires_grad <span class="op">=</span> <span class="va">False</span></span>
+<span id="cb48-10"><a href="#cb48-10" aria-hidden="true" tabindex="-1"></a>m20.fc <span class="op">=</span> nn.Linear(<span class="dv">512</span>, <span class="dv">2</span>)</span>
+<span id="cb48-11"><a href="#cb48-11" aria-hidden="true" tabindex="-1"></a>m20 <span class="op">=</span> m20.to(device)</span>
+<span id="cb48-12"><a href="#cb48-12" aria-hidden="true" tabindex="-1"></a>opt20 <span class="op">=</span> torch.optim.Adam(m20.fc.parameters(), lr<span class="op">=</span><span class="fl">0.001</span>)</span>
+<span id="cb48-13"><a href="#cb48-13" aria-hidden="true" tabindex="-1"></a><span class="cf">for</span> epoch <span class="kw">in</span> <span class="bu">range</span>(<span class="dv">10</span>):</span>
+<span id="cb48-14"><a href="#cb48-14" aria-hidden="true" tabindex="-1"></a>    train_one_epoch(m20, small_loader, criterion, opt20)</span>
+<span id="cb48-15"><a href="#cb48-15" aria-hidden="true" tabindex="-1"></a><span class="bu">print</span>(<span class="bu">len</span>(idx), evaluate(m20, val_loader, criterion))</span></code><button title="클립보드 복사" class="code-copy-button"><i class="bi"></i></button></pre></div>
 <div class="cell-output cell-output-stdout">
 <pre><code>40 (0.3301951972877278, 0.869281045751634)</code></pre>
 </div>
@@ -769,19 +799,19 @@ False</code></pre>
 <section id="과제-2-모든-층을-학습하면" class="level3">
 <h3 class="anchored" data-anchor-id="과제-2-모든-층을-학습하면">📝 과제 2 · 모든 층을 학습하면</h3>
 <p>동결하지 않고 모든 파라미터를 학습합니다. 사전학습 가중치에서 출발하므로 학습률을 0.0001로 작게 둡니다. 5 에폭 학습한 뒤 검증 정확도를 동결 학습과 비교합니다.</p>
-<div id="757f3675" class="cell" data-execution_count="29">
-<div class="sourceCode cell-code" id="cb46"><pre class="sourceCode python code-with-copy"><code class="sourceCode python"><span id="cb46-1"><a href="#cb46-1" aria-hidden="true" tabindex="-1"></a><span class="co"># 📝</span></span>
-<span id="cb46-2"><a href="#cb46-2" aria-hidden="true" tabindex="-1"></a><span class="co">#&gt; 힌트: models.resnet18(weights=weights)로 새로 만들고 fc만 nn.Linear(512, 2)로 바꿉니다. 동결 반복문은 쓰지 않습니다.</span></span>
-<span id="cb46-3"><a href="#cb46-3" aria-hidden="true" tabindex="-1"></a><span class="co">#&gt; 힌트: 옵티마이저에 모델 전체의 파라미터를 넘기고 lr=0.0001로 둡니다.</span></span>
-<span id="cb46-4"><a href="#cb46-4" aria-hidden="true" tabindex="-1"></a>full <span class="op">=</span> models.resnet18(weights<span class="op">=</span>weights)</span>
-<span id="cb46-5"><a href="#cb46-5" aria-hidden="true" tabindex="-1"></a>full.fc <span class="op">=</span> nn.Linear(<span class="dv">512</span>, <span class="dv">2</span>)</span>
-<span id="cb46-6"><a href="#cb46-6" aria-hidden="true" tabindex="-1"></a>full <span class="op">=</span> full.to(device)</span>
-<span id="cb46-7"><a href="#cb46-7" aria-hidden="true" tabindex="-1"></a>opt_full <span class="op">=</span> torch.optim.Adam(full.parameters(), lr<span class="op">=</span><span class="fl">0.0001</span>)</span>
-<span id="cb46-8"><a href="#cb46-8" aria-hidden="true" tabindex="-1"></a><span class="cf">for</span> epoch <span class="kw">in</span> <span class="bu">range</span>(<span class="dv">5</span>):</span>
-<span id="cb46-9"><a href="#cb46-9" aria-hidden="true" tabindex="-1"></a>    train_one_epoch(full, train_loader, criterion, opt_full)</span>
-<span id="cb46-10"><a href="#cb46-10" aria-hidden="true" tabindex="-1"></a><span class="bu">print</span>(evaluate(full, val_loader, criterion))</span></code><button title="클립보드 복사" class="code-copy-button"><i class="bi"></i></button></pre></div>
+<div id="a6676857" class="cell" data-execution_count="32">
+<div class="sourceCode cell-code" id="cb50"><pre class="sourceCode python code-with-copy"><code class="sourceCode python"><span id="cb50-1"><a href="#cb50-1" aria-hidden="true" tabindex="-1"></a><span class="co"># 📝</span></span>
+<span id="cb50-2"><a href="#cb50-2" aria-hidden="true" tabindex="-1"></a><span class="co">#&gt; 힌트: models.resnet18(weights=weights)로 새로 만들고 fc만 nn.Linear(512, 2)로 바꿉니다. 동결 반복문은 쓰지 않습니다.</span></span>
+<span id="cb50-3"><a href="#cb50-3" aria-hidden="true" tabindex="-1"></a><span class="co">#&gt; 힌트: 옵티마이저에 모델 전체의 파라미터를 넘기고 lr=0.0001로 둡니다.</span></span>
+<span id="cb50-4"><a href="#cb50-4" aria-hidden="true" tabindex="-1"></a>full <span class="op">=</span> models.resnet18(weights<span class="op">=</span>weights)</span>
+<span id="cb50-5"><a href="#cb50-5" aria-hidden="true" tabindex="-1"></a>full.fc <span class="op">=</span> nn.Linear(<span class="dv">512</span>, <span class="dv">2</span>)</span>
+<span id="cb50-6"><a href="#cb50-6" aria-hidden="true" tabindex="-1"></a>full <span class="op">=</span> full.to(device)</span>
+<span id="cb50-7"><a href="#cb50-7" aria-hidden="true" tabindex="-1"></a>opt_full <span class="op">=</span> torch.optim.Adam(full.parameters(), lr<span class="op">=</span><span class="fl">0.0001</span>)</span>
+<span id="cb50-8"><a href="#cb50-8" aria-hidden="true" tabindex="-1"></a><span class="cf">for</span> epoch <span class="kw">in</span> <span class="bu">range</span>(<span class="dv">5</span>):</span>
+<span id="cb50-9"><a href="#cb50-9" aria-hidden="true" tabindex="-1"></a>    train_one_epoch(full, train_loader, criterion, opt_full)</span>
+<span id="cb50-10"><a href="#cb50-10" aria-hidden="true" tabindex="-1"></a><span class="bu">print</span>(evaluate(full, val_loader, criterion))</span></code><button title="클립보드 복사" class="code-copy-button"><i class="bi"></i></button></pre></div>
 <div class="cell-output cell-output-stdout">
-<pre><code>(0.261160492117888, 0.9281045751633987)</code></pre>
+<pre><code>(0.25994840478585435, 0.9281045751633987)</code></pre>
 </div>
 </div>
 <p>✏ <strong>모든 층을 학습했을 때의 검증 정확도와 동결 학습과의 차이:</strong></p>
@@ -841,6 +871,10 @@ False</code></pre>
 <tr class="odd">
 <td>결과</td>
 <td>사진 244장으로 동결 학습 약 0.93, 처음부터 학습 0.7 안팎</td>
+</tr>
+<tr class="even">
+<td>사진 판별</td>
+<td><code>predict</code> 함수로 두 클래스의 확률. Colab에서 <code>files.upload()</code>로 올린 사진에도 그대로</td>
 </tr>
 </tbody>
 </table>
